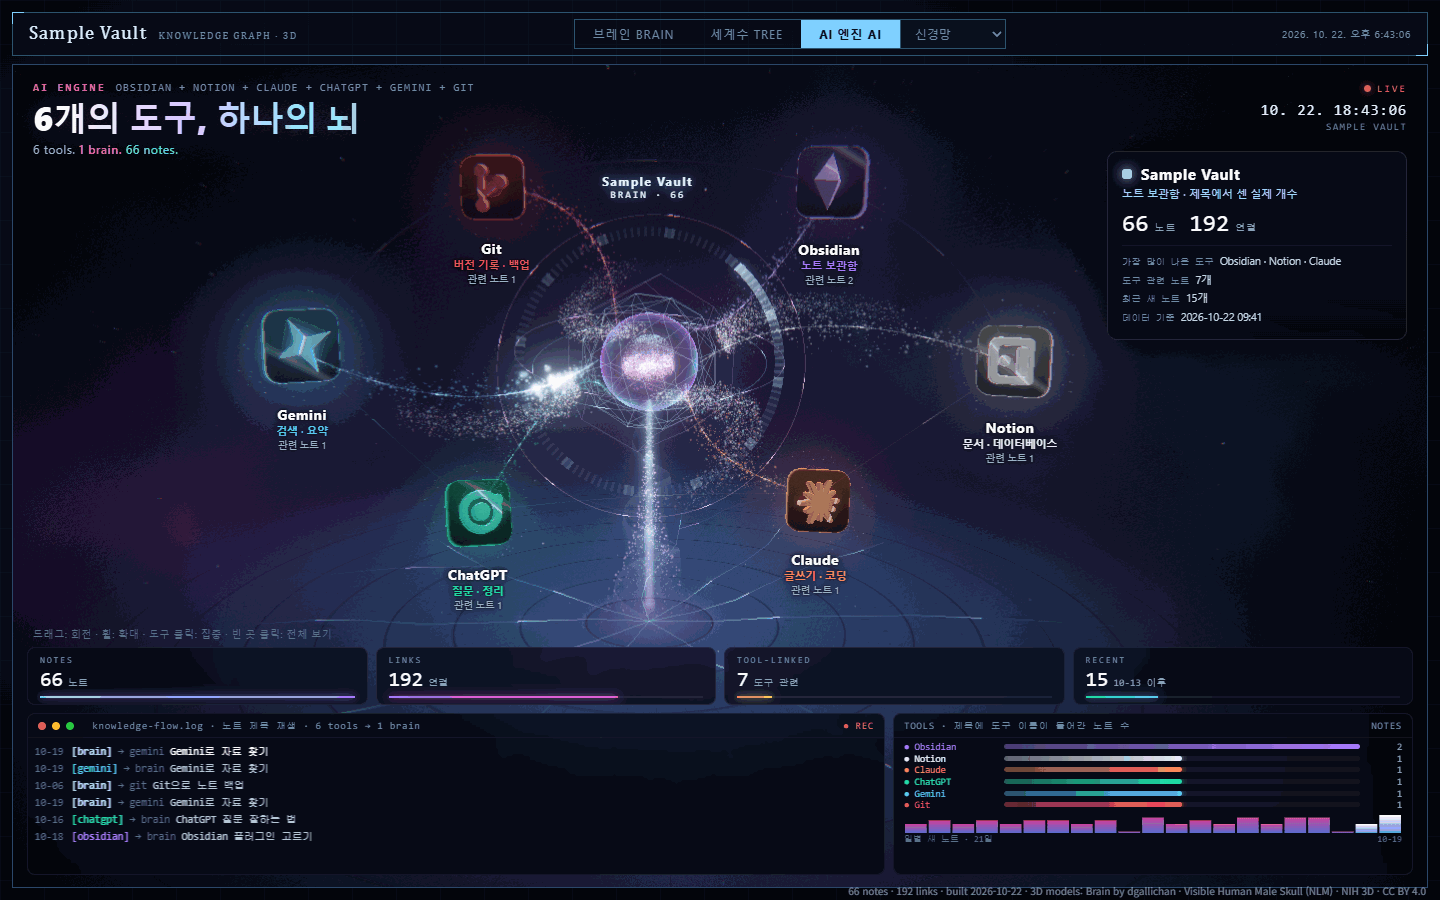
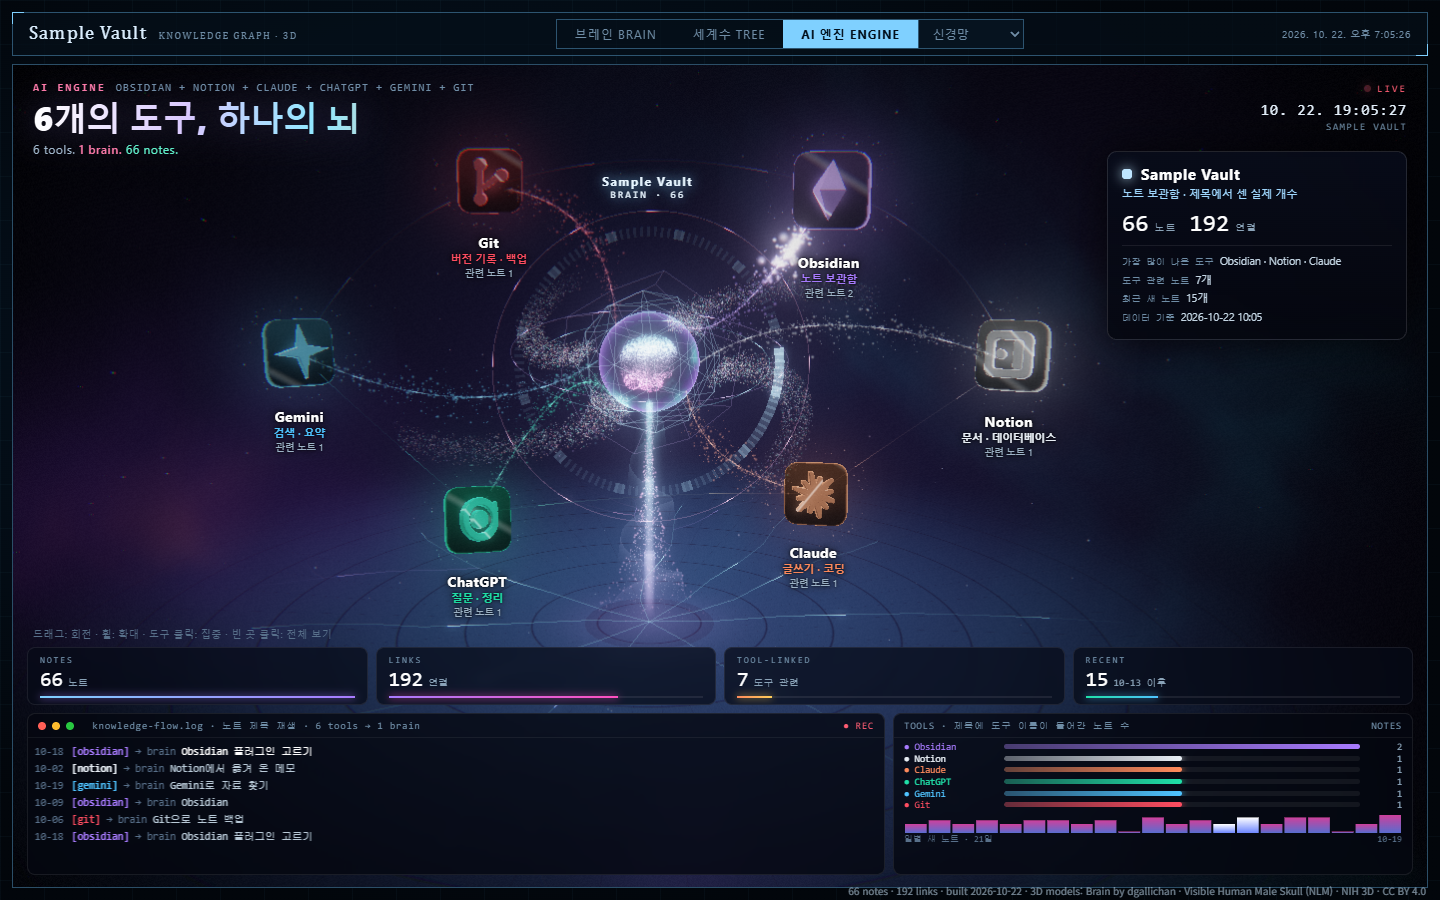
Beginner 5-minute guide (KO/EN), tab name AI 엔진 (button: AI 엔진 ENGINE), friendlier path/port errors, UTF-8 kb size, [[a\|b]] table links

diff --git a/skills/obsidian-brain-3d/viewer/ai-engine.js b/skills/obsidian-brain-3d/viewer/ai-engine.js
@@ -51,7 +51,10 @@ const recentFrom = (B.stat && B.stat.recentFrom) || '';
 const recentN = recentFrom ? N.filter((n) => dateOf(n) >= recentFrom).length : 0;
 const EDGES = (B.stat && B.stat.edges) || (B.edges ? B.edges.length : 0);
 const BRAIN_NAME = String((B.stat && B.stat.title) || 'Knowledge Brain');
-const TAB_NAME = String(UC.aiTabName || 'AI 엔진 AI');
+const TAB_NAME = String(UC.aiTabName && UC.aiTabName !== 'AI 엔진 AI' ? UC.aiTabName : 'AI 엔진'); // 'AI 엔진 AI' = 예전 기본값
+// 다른 탭(브레인 BRAIN, 세계수 TREE)처럼 한글 이름 뒤에 영문을 붙입니다. 기본 이름일 때만 ENGINE, 이름을 바꾸면 aiTabEn 으로 직접 정합니다(빈 값이면 붙이지 않음).
+const TAB_EN = UC.aiTabEn != null ? String(UC.aiTabEn) : (TAB_NAME === 'AI 엔진' ? 'ENGINE' : '');
+const TAB_LABEL = TAB_EN && !TAB_NAME.toUpperCase().includes(TAB_EN.toUpperCase()) ? TAB_NAME + ' ' + TAB_EN : TAB_NAME;
 const HEAD = String(UC.aiTitle || `${TOOLS.length}개의 도구, 하나의 뇌`);
 
 /* ---------------- 화면 틀 ---------------- */
@@ -595,7 +598,7 @@ function close() {
   if (!on) return; on = false; window.__AI_ON = false; root.classList.remove('on'); tA.classList.remove('on'); cancelAnimationFrame(raf);
   const cc = $('ccby'); if (cc) cc.style.zIndex = '';
 }
-const tA = document.createElement('button'); tA.id = 'tA'; tA.textContent = TAB_NAME; tA.title = 'A';
+const tA = document.createElement('button'); tA.id = 'tA'; tA.textContent = TAB_LABEL; tA.title = 'A';
 const tT = $('tT'); if (tT) tT.after(tA); else ($('tabs') || document.body).appendChild(tA);
 tA.addEventListener('click', open);
 ['tB', 'tT'].forEach((id) => $(id) && $(id).addEventListener('click', close));

diff --git a/skills/obsidian-brain-3d/viewer/config.js b/skills/obsidian-brain-3d/viewer/config.js
@@ -25,8 +25,10 @@ window.BRAIN_CONFIG = {
   ui: { /* bg: '#02060b', ink: '#dcefff', dim: '#6f8da6', cy: '#7fd0ff' */ },
 
   // ---- AI 엔진 탭 (단축키 A, 주소 ?mode=ai) ----
-  // 탭 이름과 큰 제목. 지우면 기본값('AI 엔진 AI', 'N개의 도구, 하나의 뇌')
-  aiTabName: 'AI 엔진 AI',
+  // 탭 이름과 큰 제목. 지우면 기본값('AI 엔진', 'N개의 도구, 하나의 뇌')
+  // 탭 버튼에는 다른 탭(브레인 BRAIN, 세계수 TREE)처럼 영문이 붙어 'AI 엔진 ENGINE'으로 보입니다.
+  // 이름을 바꾸면 영문은 붙지 않습니다. 붙이고 싶으면 aiTabEn: 'TOOLS' 처럼 적습니다.
+  aiTabName: 'AI 엔진',
   // aiTitle: '내 도구들이 한 뇌로',
 
   // 화면에 나오는 도구(최대 12개). 개수는 노트 제목에서 match(정규식, 대소문자 무시)로 실제로 센 값입니다.

diff --git a/README.md b/README.md
@@ -12,11 +12,62 @@
 
 <p align="center"><img src="skills/obsidian-brain-3d/docs/preview.png" alt="옵시디언 3D 지식그래프 화면" width="100%"></p>
 
+## 처음 5분 따라 하기
+
+컴퓨터에 익숙하지 않아도 아래 순서대로 하면 됩니다. 먼저 함께 들어 있는 **예시 노트**로 화면을 띄워 보고, 잘 되면 내 보관함으로 바꿉니다. 내 노트는 읽기만 하고 고치거나 지우지 않으며, 인터넷에 올리지도 않습니다.
+
+1. **터미널 열기** (명령어를 글자로 입력하는 창)
+   - Windows: 시작 버튼을 누르고 `PowerShell`을 입력한 뒤 「Windows PowerShell」을 누릅니다.
+   - Mac: `Command(⌘) + Space`를 누르고 `터미널`(또는 `Terminal`)을 입력한 뒤 Enter를 누릅니다.
+2. **Node.js가 있는지 확인** (Node.js = 이 도구를 돌리는 무료 프로그램)
+   ```
+   node --version
+   ```
+   `v18`보다 큰 숫자(예: `v22.11.0`)가 나오면 다음으로 넘어갑니다. 「인식되지 않습니다」나 `command not found`가 나오면 [nodejs.org](https://nodejs.org)에서 **LTS**(오래 지원하는 안정판)를 받아 설치하고, 터미널을 **닫았다가 다시 연 뒤** 한 번 더 확인합니다.
+3. **이 폴더 받기** (둘 중 하나)
+   - git(파일 내려받기 도구)이 있으면:
+     ```
+     git clone https://github.com/reedodev/obsidian-brain-3d.git
+     cd obsidian-brain-3d
+     ```
+   - git이 없으면: 이 페이지 위쪽 초록색 **Code** 버튼 → **Download ZIP**을 누르고, 받은 파일의 압축을 풉니다(Windows는 오른쪽 클릭 → 「모두 압축 풀기」. 압축 파일 안에서 바로 실행하면 안 됩니다). 풀린 폴더 이름은 `obsidian-brain-3d-main`입니다. 터미널에 `cd `(cd 다음 띄어쓰기 한 칸)를 입력하고, 그 폴더를 터미널 창으로 끌어다 놓은 뒤 Enter를 누릅니다.
+   - 제대로 들어왔는지 확인: Windows는 `dir`, Mac은 `ls`를 입력했을 때 `README.md`와 `skills`가 보이면 됩니다. 아래 명령은 모두 **이 폴더 안에서** 입력합니다.
+4. **예시 노트로 화면 만들기** (한 줄을 그대로 복사해 붙여 넣습니다)
+   ```
+   node skills/obsidian-brain-3d/scripts/build-data.mjs skills/obsidian-brain-3d/examples/sample-vault --site brain-site
+   ```
+   마지막에 `Done / 완료`가 나오면 성공입니다. 화면 파일이 든 `brain-site` 폴더가 새로 생깁니다.
+5. **화면 켜기**
+   ```
+   node skills/obsidian-brain-3d/scripts/serve.mjs brain-site
+   ```
+   `serving ... at http://127.0.0.1:8770/`이 나오면 이 터미널은 **켜 둔 채로** 둡니다. 창을 닫으면 화면도 꺼집니다.
+6. **브라우저 주소창에 입력**: `http://127.0.0.1:8770/` (Chrome·Edge·Safari 최신판). 이 주소는 내 컴퓨터 안에서만 열리고 다른 사람은 볼 수 없습니다. 뇌가 보이면 `T` 세계수, `B` 뇌, `A` AI 엔진 탭입니다. 끌면 돌아가고 마우스 휠로 확대합니다.
+7. **내 보관함으로 바꾸기**: 5번 터미널에서 `Ctrl + C`로 끈 다음, 4번 명령의 예시 경로(`skills/obsidian-brain-3d/examples/sample-vault`) 자리에 **내 보관함 폴더 경로**를 넣고 4~6번을 다시 합니다.
+   ```
+   # Windows 예
+   node skills/obsidian-brain-3d/scripts/build-data.mjs "C:\Users\내이름\Documents\내 보관함" --site brain-site
+   # Mac 예
+   node skills/obsidian-brain-3d/scripts/build-data.mjs "/Users/내이름/Documents/내 보관함" --site brain-site
+   ```
+   - 경로를 모르면: 보관함 폴더를 터미널 창으로 끌어다 놓으면 경로가 저절로 입력됩니다. Windows 탐색기 주소창을 눌러 복사해도 되고, Mac Finder에서는 폴더를 고른 뒤 `Option + Command + C`로 경로를 복사합니다.
+   - 경로에 띄어쓰기가 있으면 앞뒤를 큰따옴표 `" "`로 감쌉니다. 한글 폴더 이름도 그대로 됩니다.
+   - 옵시디언 보관함은 그 안에 `.obsidian`이라는 숨은 폴더가 들어 있는 폴더입니다. Mac에서 iCloud에 둔 보관함은 보통 `"$HOME/Library/Mobile Documents/iCloud~md~obsidian/Documents/보관함이름"`입니다.
+8. **끄기**: 화면을 켠 터미널을 누르고 `Ctrl + C`(Mac도 `control + C`)를 누릅니다. 다시 볼 때는 5번만 하면 되고, 노트가 늘었으면 4번(내 보관함은 7번)부터 다시 합니다.
+
+**화면이 안 뜰 때 확인할 것 3가지**
+
+1. **5번 터미널이 아직 켜져 있나요?** `serving ...` 글자가 보여야 합니다. 창을 닫았거나 `Ctrl + C`를 눌렀다면 5번을 다시 합니다. `Port 8770 is busy`가 나오면 끝에 다른 번호를 붙여(`node skills/obsidian-brain-3d/scripts/serve.mjs brain-site 8771`) 켜고, 주소도 `http://127.0.0.1:8771/`로 바꿉니다.
+2. **주소가 정확한가요?** `https`가 아니라 `http`이고, 끝의 `:8770/`까지 넣어야 합니다. `index.html` 파일을 두 번 눌러 열면 브라우저 설정에 따라 막힐 수 있으니, 이 주소로 여는 것을 기준으로 합니다.
+3. **검은 화면만 보이나요?** `Ctrl + F5`(Mac은 `Command + Shift + R`)로 새로 고침하고, Chrome이나 Edge 최신판으로 열어 봅니다. 3D를 그리는 기능(WebGL)이 꺼진 브라우저나 원격 접속 화면에서는 안 보일 수 있습니다. Chrome은 설정 → 시스템 → 「가능한 경우 그래픽 가속 사용」을 켭니다.
+
+그 밖에 자주 막히는 곳: 4번에서 `Folder not found`가 나오면 경로가 틀렸거나 따옴표가 빠진 것입니다. `no .md files found`면 그 폴더에 노트(`.md` 파일)가 없습니다. `Cannot find module`이 나오면 3번 폴더 밖에서 입력한 것이니 `cd`로 다시 들어갑니다. 노트가 수천 개면 처음 한 번은 수십 초 걸릴 수 있습니다.
+
 ### AI 엔진 탭
 
 <p align="center"><img src="skills/obsidian-brain-3d/docs/preview-ai.png" alt="AI 엔진 탭: 도구 타일이 빛줄기로 가운데 뇌에 연결되는 화면" width="100%"></p>
 
-도구 목록은 출력 폴더 `config.js`의 `aiTools`에 적습니다. 도구마다 `match`(정규식)로 **노트 제목**을 검사해 실제로 걸린 노트 수만 보여 주고, 숫자를 꾸며 넣지 않습니다. 아래 흐름 기록(log)은 실제 노트 제목을 차례로 보여 주는 연출입니다. `aiTools: []`로 비우면 탭이 사라지고, 탭 이름은 `aiTabName`으로 바꿉니다. 주소에 `?mode=ai`를 붙이면 바로 이 탭으로 열립니다.
+도구 목록은 출력 폴더(`brain-site`)의 `config.js`에서 `aiTools`에 적습니다. `match`에는 **도구 이름을 찾는 낱말**을 적고, 여러 개는 `|`(세로 막대, "또는"이라는 뜻)로 잇습니다. 예를 들어 `'claude|클로드'`는 **노트 제목**에 claude나 클로드가 들어간 노트를 셉니다. 영어 대소문자는 가리지 않고, 본문은 보지 않습니다. 실제로 걸린 노트 수만 보여 주고 숫자를 꾸며 넣지 않습니다. (`match`는 정규식이라는 검색 규칙이라 `. * ( ) [ ] \` 같은 기호에는 특별한 뜻이 있습니다. 낱말과 `|`만 쓰면 신경 쓰지 않아도 됩니다.) 아래 흐름 기록(log)은 실제 노트 제목을 차례로 보여 주는 연출입니다. `aiTools: []`로 비우면 탭이 사라지고, 탭 이름은 `aiTabName`(기본 「AI 엔진」, 버튼에는 다른 탭처럼 영문을 붙여 「AI 엔진 ENGINE」)으로 바꿉니다. 주소에 `?mode=ai`를 붙이면 바로 이 탭으로 열립니다.
 
 ```js
 aiTools: [
@@ -37,23 +88,36 @@ aiTools: [
 
 ## 설치
 
-**Claude Code 플러그인으로 설치**
+위 「처음 5분」은 직접 명령을 입력하는 방법입니다. Claude Code(터미널에서 쓰는 AI 도우미)를 쓴다면 스킬로 설치해 두고 "내 옵시디언 노트를 뇌 모양으로 보여 줘"처럼 말로 맡길 수도 있습니다.
+
+**Claude Code 플러그인으로 설치** (Claude Code 대화창에 입력)
 
 ```
 /plugin marketplace add reedodev/obsidian-brain-3d
 /plugin install obsidian-brain-3d@obsidian-brain-3d
 ```
 
+대화창 대신 터미널에서 같은 일을 하려면 `claude plugin marketplace add reedodev/obsidian-brain-3d` 다음 `claude plugin install obsidian-brain-3d@obsidian-brain-3d`를 입력합니다. `claude plugin list`에 `obsidian-brain-3d ... enabled`가 보이면 설치된 것입니다.
+
 **폴더만 복사**
 
 ```bash
+# Mac / Linux
 git clone https://github.com/reedodev/obsidian-brain-3d.git
+mkdir -p ~/.claude/skills
 cp -r obsidian-brain-3d/skills/obsidian-brain-3d ~/.claude/skills/
 ```
 
-필요한 것: Node 18+, 웹 브라우저
+```powershell
+# Windows PowerShell
+git clone https://github.com/reedodev/obsidian-brain-3d.git
+New-Item -ItemType Directory -Force "$HOME\.claude\skills" | Out-Null
+Copy-Item -Recurse obsidian-brain-3d\skills\obsidian-brain-3d "$HOME\.claude\skills\"
+```
 
-## 바로 해 보기
+필요한 것: Node.js 18 이상, 웹 브라우저(Chrome·Edge·Safari)
+
+## 바로 해 보기 (이미 익숙한 분)
 
 ```bash
 node skills/obsidian-brain-3d/scripts/build-data.mjs skills/obsidian-brain-3d/examples/sample-vault --site ./brain-site
@@ -86,23 +150,32 @@ node skills/obsidian-brain-3d/scripts/serve.mjs ./brain-site      # http://127.0
 
 ## English
 
-Render an Obsidian vault as points inside an x-ray brain and skull, switch to a world-tree layout with T, and see real note titles, dates and link counts. Press **A** for the third tab, **AI engine**: the tools you list in `config.js` (`aiTools: [{id, name, sub, color, match}]`) are linked to the brain by particle streams. Each count is the real number of note titles matching that tool's `match` regex; nothing is made up. `aiTools: []` hides the tab, `aiTabName` renames it, `?mode=ai` opens it directly. Optional title/group hiding for public sharing (with `--hide-titles` the AI tab shows hidden titles, and counts are taken from the real titles at build time).
+Render an Obsidian vault as points inside an x-ray brain and skull, switch to a world-tree layout with T, and see real note titles, dates and link counts. Press **A** for the third tab, **AI engine**: the tools you list in `config.js` (`aiTools: [{id, name, sub, color, match}]`) are linked to the brain by particle streams. `match` holds the word(s) that find the tool's name in a note **title**; join several with `|` (meaning "or"), e.g. `'chatgpt|gpt'`. It ignores upper/lower case and is technically a regular expression, so plain words and `|` are all you need. Each count is the real number of matching titles; nothing is made up. `aiTools: []` hides the tab, `aiTabName` renames it (default "AI 엔진", shown as "AI 엔진 ENGINE" like the other tabs), `?mode=ai` opens it directly. Optional title/group hiding for public sharing (with `--hide-titles` the AI tab shows hidden titles, and counts are taken from the real titles at build time).
 
 <p align="center"><img src="skills/obsidian-brain-3d/docs/preview-ai.png" alt="AI engine tab" width="100%"></p>
 
 **Credits.**
 - Started after seeing an [X post](https://x.com/karlarboledas/status/2111838109029552334) about [graphify](https://github.com/Graphify-Labs/graphify) and a brain-shaped dashboard video in it. No graphify code or design files were used; the viewer was written from scratch with three.js and pushed in a different direction (x-ray skull, world tree). Vault structure follows Karpathy's [LLM Wiki](https://gist.github.com/karpathy/442a6bf555914893e9891c11519de94f). The AI-tab layout idea came from an "AI setup" dashboard post by @yungeonu11 on Threads (no code or assets used; icons are abstract shapes, not product logos). Models: NIH 3D (CC BY 4.0); library: three.js (MIT). See [CREDITS.md](skills/obsidian-brain-3d/viewer/CREDITS.md).
 
-### Quick start (English)
+### Quick start (English, about 5 minutes)
 
-`ash
-git clone https://github.com/reedodev/obsidian-brain-3d.git && cd obsidian-brain-3d
-# 1. Build a site from any folder of .md notes (read-only, never writes into your vault)
-node skills/obsidian-brain-3d/scripts/build-data.mjs <your-vault> --site ./brain-site
-# 2. Serve it and open http://127.0.0.1:8770/  (keep this terminal open)
-node skills/obsidian-brain-3d/scripts/serve.mjs ./brain-site
-```
+You need **Node.js** (a free program that runs JavaScript tools on your computer) and a web browser. Your notes are only read, never changed, and nothing is uploaded.
 
-No vault yet? Use the bundled sample: `skills/obsidian-brain-3d/examples/sample-vault`. Press **T** to morph between the brain and the world tree, **B** for the brain, **A** for the AI tab. Everything runs locally; nothing is uploaded. Rebuild with `--hide-titles --hide-groups` (see SKILL.md) before sharing screenshots of a private vault.
+1. **Open a terminal** (a window where you type commands). Windows: press Start, type `PowerShell`, open "Windows PowerShell". Mac: press `Command + Space`, type `Terminal`, press Enter.
+2. **Check Node.js**: type `node --version`. Anything from `v18` up (e.g. `v22.11.0`) is fine. If you see "not recognized" or `command not found`, install the **LTS** (long-term support) version from [nodejs.org](https://nodejs.org), then close and reopen the terminal and check again.
+3. **Get this folder.** With git: `git clone https://github.com/reedodev/obsidian-brain-3d.git` then `cd obsidian-brain-3d`. Without git: green **Code** button → **Download ZIP**, unzip it (Windows: right-click → Extract All; do not run from inside the zip), type `cd ` (with a space) in the terminal, drag the `obsidian-brain-3d-main` folder onto the terminal window and press Enter. `dir` (Windows) or `ls` (Mac) should now list `README.md` and `skills`. Run every command below from this folder.
+4. **Build the sample**:
+   ```
+   node skills/obsidian-brain-3d/scripts/build-data.mjs skills/obsidian-brain-3d/examples/sample-vault --site brain-site
+   ```
+   It ends with `Done / 완료` and creates a `brain-site` folder.
+5. **Start the viewer**: `node skills/obsidian-brain-3d/scripts/serve.mjs brain-site`. When it prints `serving ... at http://127.0.0.1:8770/`, leave this terminal open.
+6. **Open** `http://127.0.0.1:8770/` in Chrome, Edge or Safari. Only your own computer can open it.
+7. **Use your own vault**: press `Ctrl + C` in the terminal, then repeat steps 4-6 with your vault folder in place of the sample path, in quotes, e.g. `"C:\Users\me\Documents\My Vault"` or `"/Users/me/Documents/My Vault"`. Tip: drag the folder onto the terminal to paste its path. An Obsidian vault is the folder that contains a hidden `.obsidian` folder.
+8. **Stop**: click the terminal and press `Ctrl + C` (also on Mac). Next time just do step 5.
+
+**Nothing shows up?** (1) Is the step-5 terminal still open and showing `serving ...`? If it says `Port 8770 is busy`, add another number (`... serve.mjs brain-site 8771`) and open `:8771`. (2) Is the address exactly `http://127.0.0.1:8770/` (http, not https)? Double-clicking `index.html` may be blocked by some browsers, so use this address. (3) Black screen? Hard-refresh (`Ctrl + F5` / `Command + Shift + R`) and try the latest Chrome or Edge with hardware acceleration on; 3D (WebGL) may not work over remote desktop. `Folder not found` means a wrong path or missing quotes; `Cannot find module` means you are not inside the folder from step 3.
+
+Press **T** to morph between the brain and the world tree, **B** for the brain, **A** for the AI tab. Everything runs locally; nothing is uploaded. Rebuild with `--hide-titles --hide-groups` (see SKILL.md) before sharing screenshots of a private vault.
 
 Install: `/plugin marketplace add reedodev/obsidian-brain-3d` then `/plugin install obsidian-brain-3d@obsidian-brain-3d`, or copy `skills/obsidian-brain-3d` into `~/.claude/skills/`. See [SKILL.md](skills/obsidian-brain-3d/SKILL.md) for the full procedure. MIT License; third-party models, fonts and libraries keep their own licenses.

diff --git a/skills/obsidian-brain-3d/SKILL.md b/skills/obsidian-brain-3d/SKILL.md
@@ -106,7 +106,7 @@ node scripts/serve.mjs ./brain-site
 | "제목을 '내 두 번째 뇌'로 해 줘" | 다시 빌드: `--title "내 두 번째 뇌"` |
 | "공개용으로 제목 가려 줘" | 다시 빌드: `--hide-titles --hide-groups` |
 | "처음부터 AI 엔진 탭으로 열리게" | `startMode: 'ai'` (주소로는 `?mode=ai`) |
-| "AI 탭 이름을 '내 도구'로" | `aiTabName: '내 도구'` |
+| "AI 탭 이름을 '내 도구'로" | `aiTabName: '내 도구'` (기본은 `'AI 엔진'`이고 버튼에 `AI 엔진 ENGINE`으로 보임. 바꾼 이름 뒤에 영문을 붙이려면 `aiTabEn: 'TOOLS'`) |
 | "AI 탭 큰 제목을 바꿔 줘" | `aiTitle: '내 도구들이 한 뇌로'` |
 | "AI 탭에 Cursor 넣어 줘" | `aiTools`에 한 줄 추가: `{ id: 'cursor', name: 'Cursor', sub: '코드 편집', color: '#7fd0ff', match: 'cursor\|커서' }` |
 | "Notion 빼 줘" | `aiTools`에서 그 줄 삭제 |
@@ -120,7 +120,7 @@ http://127.0.0.1:8770/?mode=tree&bg=space&speed=0&skull=0&jaw=1
 http://127.0.0.1:8770/?mode=ai
 ```
 
-**AI 엔진 탭의 숫자에 대해**: 도구 칸의 숫자는 노트 **제목**에서 그 도구의 `match`가 걸린 노트 수이고, 본문은 보지 않습니다. 예시 숫자를 꾸며 넣지 않으므로 제목에 도구 이름을 잘 안 쓰는 보관함에서는 0이 많이 나올 수 있습니다. 이때는 `match`에 그 도구를 부르는 다른 이름(한글 이름, 줄임말)을 더합니다. 아래 흐름 기록(log)은 실제 작업 기록이 아니라 실제 노트 제목을 차례로 보여 주는 연출입니다. `aiTools` 줄을 통째로 지운 예전 `config.js`라면 기본 예시 도구(Obsidian, Notion, Claude, ChatGPT, Gemini, Git)를 씁니다. 도구는 12개까지 보입니다.
+**AI 엔진 탭의 숫자에 대해**: `match`는 도구 이름을 찾는 낱말이고 여러 개는 `|`(또는)로 잇습니다(정확히는 대소문자를 가리지 않는 정규식). 도구 칸의 숫자는 노트 **제목**에서 그 도구의 `match`가 걸린 노트 수이고, 본문은 보지 않습니다. 예시 숫자를 꾸며 넣지 않으므로 제목에 도구 이름을 잘 안 쓰는 보관함에서는 0이 많이 나올 수 있습니다. 이때는 `match`에 그 도구를 부르는 다른 이름(한글 이름, 줄임말)을 더합니다. 아래 흐름 기록(log)은 실제 작업 기록이 아니라 실제 노트 제목을 차례로 보여 주는 연출입니다. `aiTools` 줄을 통째로 지운 예전 `config.js`라면 기본 예시 도구(Obsidian, Notion, Claude, ChatGPT, Gemini, Git)를 씁니다. 도구는 12개까지 보입니다.
 
 **모양을 바꾼 뒤에는** 브라우저를 새로고침하고 개발자 도구 콘솔에서 `window.__errs`가 빈 목록(`[]`)인지 확인한 뒤 화면을 직접 봅니다. 배경을 위쪽 메뉴로 고른 적이 있으면 그 선택이 브라우저에 저장돼 `config.js`보다 앞서므로, 주소에 `?bg=`를 붙이거나 메뉴에서 다시 고릅니다.
 
